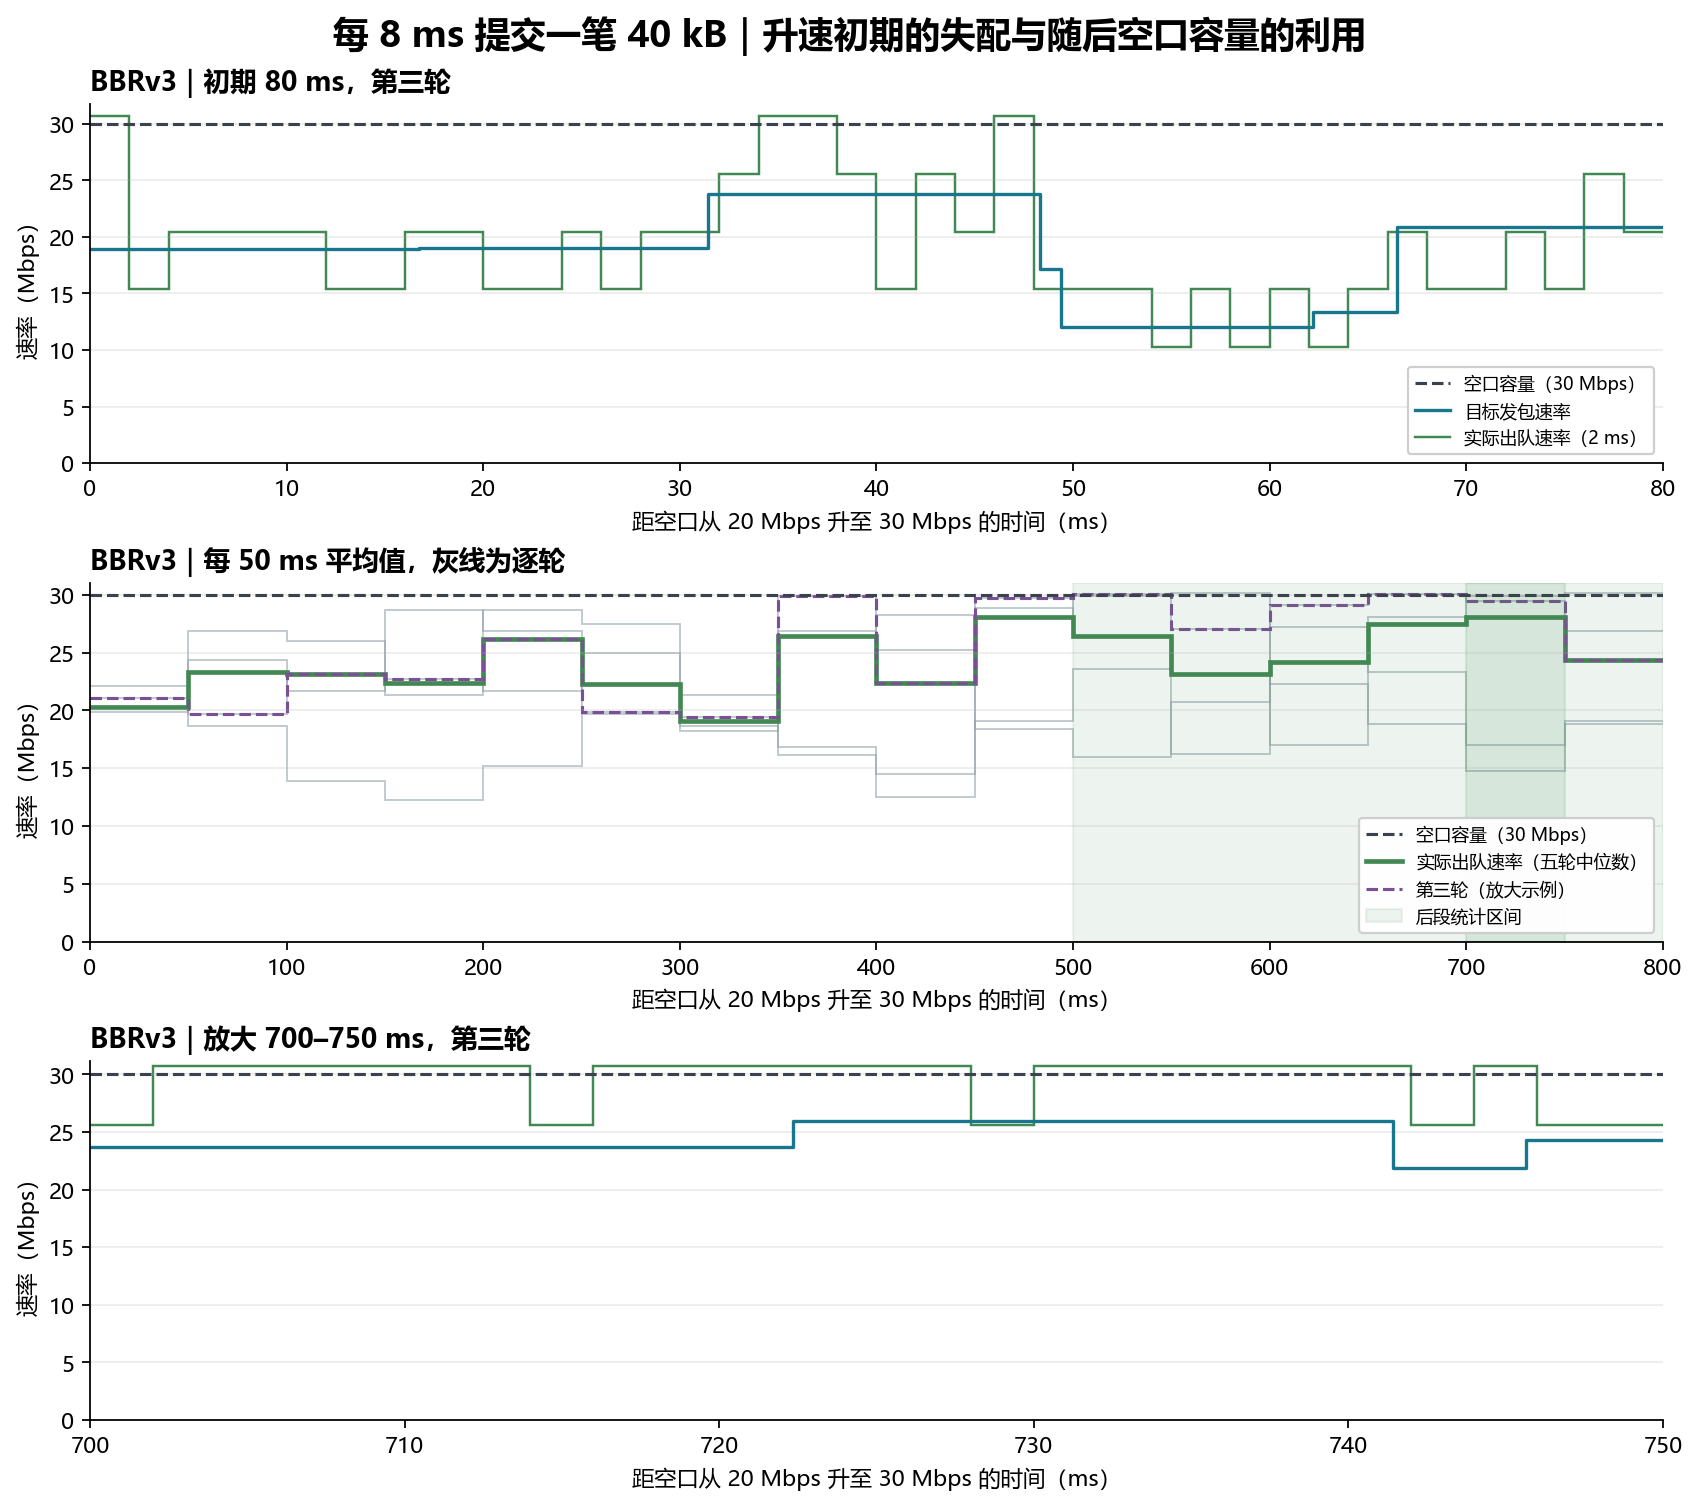
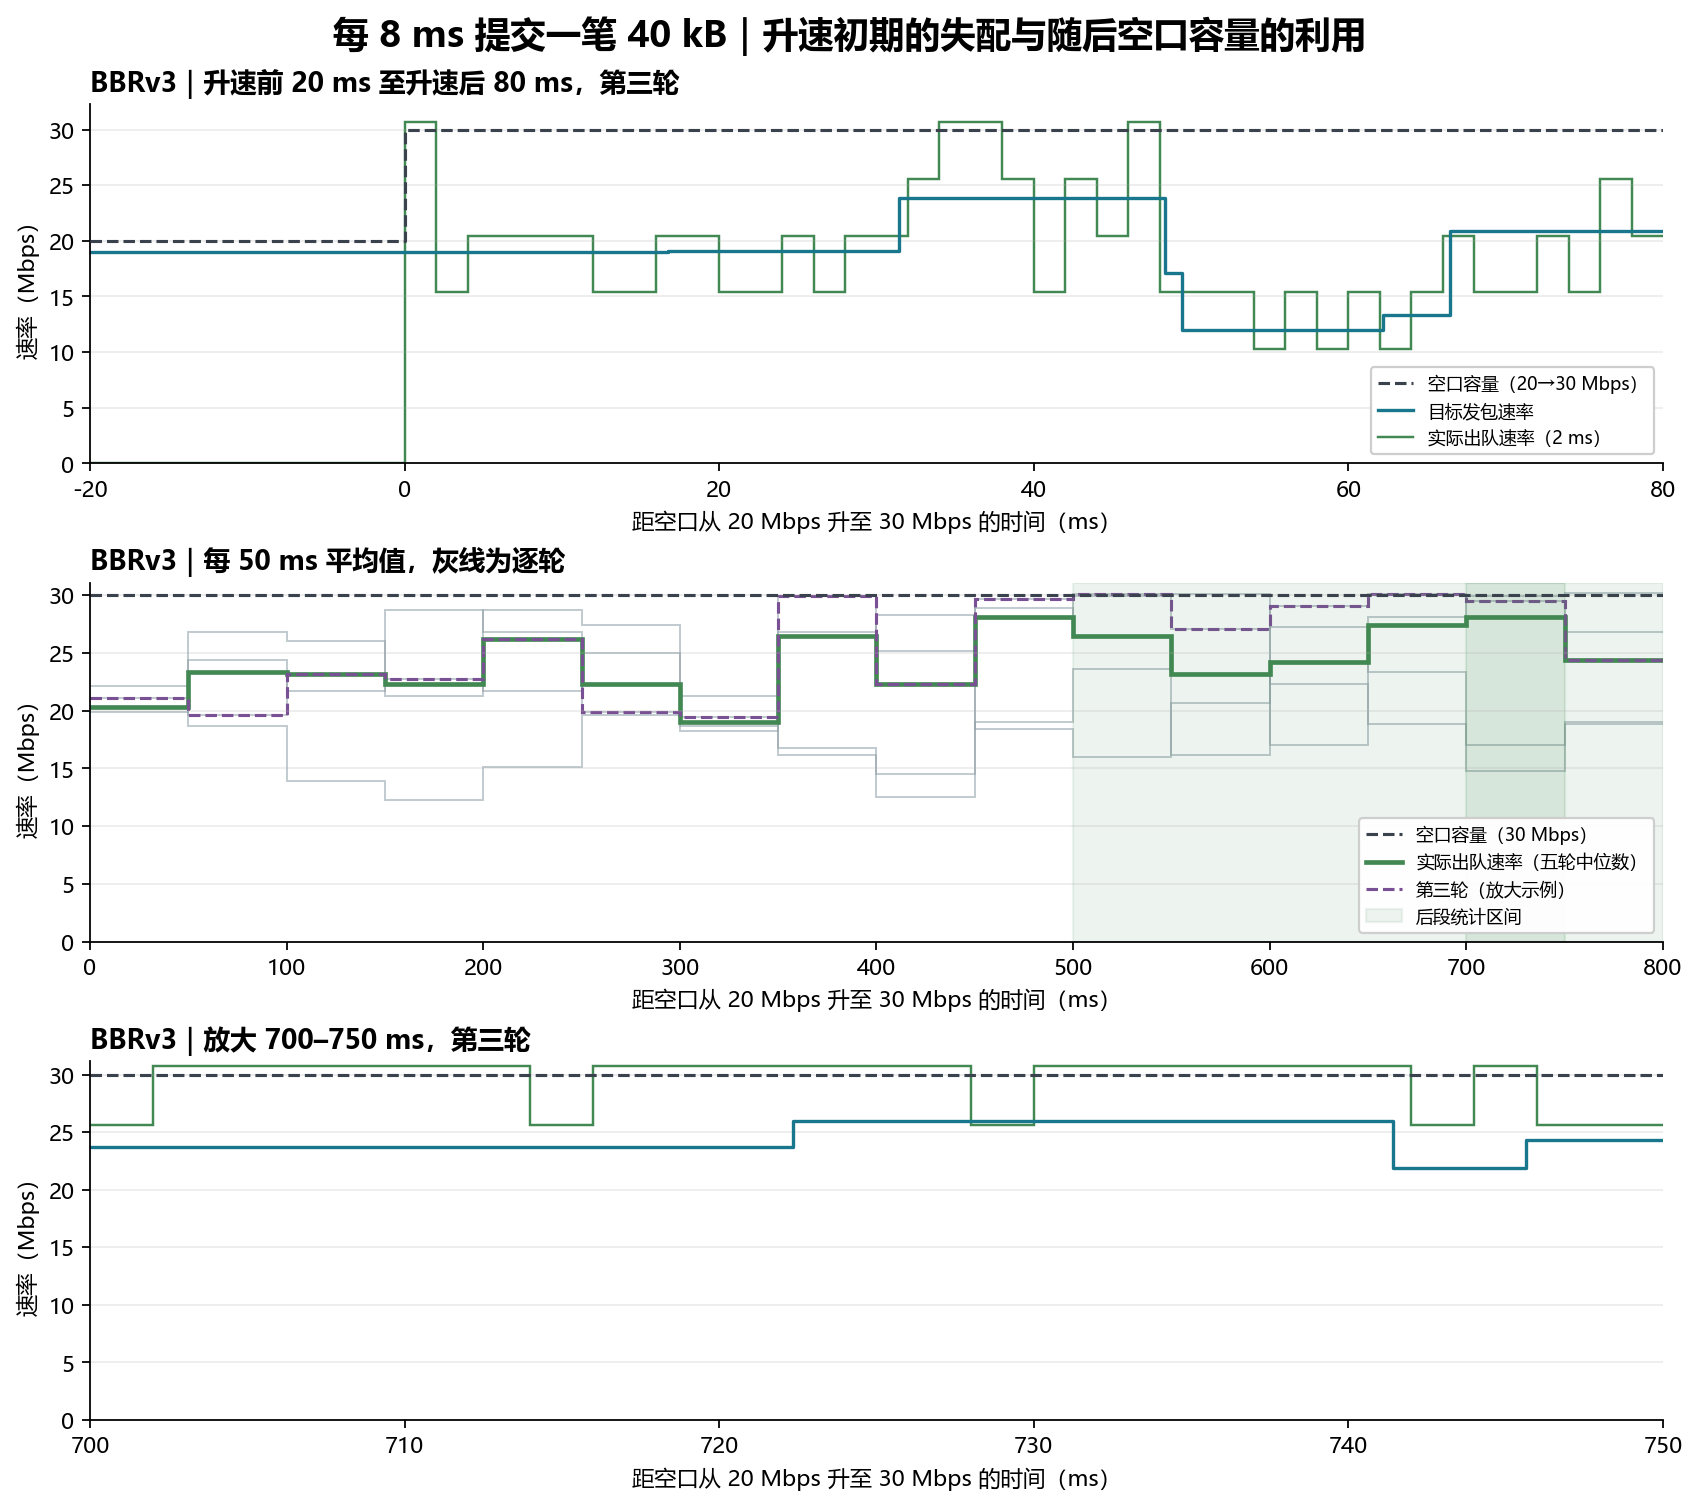
Show the pre-step capacity in the BBRv3 40 kB trace

diff --git a/studies/pacing_loss/reverse_delay_report.py b/studies/pacing_loss/reverse_delay_report.py
@@ -100,7 +100,7 @@ def plot_long_rise(runs, out, *, request_train=False):
                              sharey="row", squeeze=False, layout="constrained")
     title = "每 8 ms 提交一笔 40 kB" if request_train else "3 MB 连续上传"
     fig.suptitle(f"{title}｜升速初期的失配与随后空口容量的利用", fontsize=16, fontweight="bold")
-    early = list(range(0, 81, 2))
+    early = list(range(-20 if request_train else 0, 81, 2))
     coarse = list(range(0, 801, 50))
     late = list(range(700, 751, 2)) if request_train else list(range(550, 601, 2))
     detail_repeat = "第三轮" if request_train else "第一轮"
@@ -108,7 +108,7 @@ def plot_long_rise(runs, out, *, request_train=False):
     table = []
     for j, mode in enumerate(modes):
         detail, overview, zoom = axes[:, j]
-        for ax in axes[:, j]:
+        for ax in ((overview, zoom) if request_train else axes[:, j]):
             ax.axhline(30, color=CAP, lw=1.4, ls="--", label="空口容量（30 Mbps）")
         by_window = {a: [] for a in coarse[:-1]}
         for (tag, run), (raw, wire, rows) in sorted(runs.items()):
@@ -119,6 +119,10 @@ def plot_long_rise(runs, out, *, request_train=False):
             if completed < coarse[-1]:
                 raise ValueError("Upload finished before the comparison window ended")
             if run.endswith("__02" if request_train else "__00"):
+                if request_train:
+                    capacity = [(t / 1000 - CHANGE, rate) for t, rate in raw["plan.json"]["capacity"]]
+                    step(detail, capacity, early[0], early[-1], color=CAP, lw=1.4, ls="--", zorder=4,
+                         label="空口容量（20→30 Mbps）")
                 pacing = samples(raw, "pacing_bps", 1e6)
                 for ax, edges in ((detail, early), (zoom, late)):
                     step(ax, pacing, edges[0], edges[-1], color=PACE, lw=1.5, label="目标发包速率")
@@ -141,7 +145,8 @@ def plot_long_rise(runs, out, *, request_train=False):
                             color="#795093", lw=1.4, ls="--", label="第三轮（放大示例）")
         overview.axvspan(500, 800, color=OUT, alpha=.09, label="后段统计区间")
         overview.axvspan(late[0], late[-1], color=OUT, alpha=.13)
-        style(detail, f"BBRv{mode[3]}｜初期 80 ms，{detail_repeat}", "速率（Mbps）" if j == 0 else "")
+        detail_span = "升速前 20 ms 至升速后 80 ms" if request_train else "初期 80 ms"
+        style(detail, f"BBRv{mode[3]}｜{detail_span}，{detail_repeat}", "速率（Mbps）" if j == 0 else "")
         style(overview, f"BBRv{mode[3]}｜每 50 ms 平均值，灰线为逐轮", "速率（Mbps）" if j == 0 else "")
         style(zoom, f"BBRv{mode[3]}｜放大 {late[0]}–{late[-1]} ms，{detail_repeat}",
               "速率（Mbps）" if j == 0 else "")

diff --git a/REPORT.pacing-mismatch-40kb-bbr3.zh-CN.md b/REPORT.pacing-mismatch-40kb-bbr3.zh-CN.md
@@ -12,7 +12,7 @@
 
 ![图 1。BBRv3 在 40 kB 请求连续提交时，按 2 ms 和 50 ms 观察发包与空口利用](results/pacing-mismatch-reverse/train-40kb-rise.png)
 
-**图 1** 以空口容量升至 30 Mbps 的时刻为 0 ms，黑虚线是配置容量。上排和下排分别放大第三轮的 **0–80 ms** 和 **700–750 ms**。青线是 QUIC 安排发包间隔时使用的**目标发包速率**，绿线是每 **2 ms** 内完成模拟空口传输并由中继转发的**实际出队速率**。中排将每轮的实际出队速率按 **50 ms** 窗口取平均。细灰线表示单轮，粗绿线表示同一窗口的五轮中位数，紫虚线标出第三轮。浅绿底表示 **500–800 ms** 的汇总区间，较深的背景标出 **700–750 ms** 的放大区间。速率按完整 IP 包出队计量，单个 2 ms 窗口可能略高于配置容量，补发包也会计入空口占用。
+**图 1** 以升速时刻为 0 ms。上排放大第三轮的 **−20 至 80 ms**，黑虚线表示配置容量，由 **20 Mbps** 在 **0 ms** 跳到 **30 Mbps**。下排放大同一轮的 **700–750 ms**。青线是 QUIC 安排发包间隔时使用的**目标发包速率**，绿线是每 **2 ms** 内完成模拟空口传输并由中继转发的**实际出队速率**。中排将每轮的实际出队速率按 **50 ms** 窗口取平均。细灰线表示单轮，粗绿线表示同一窗口的五轮中位数，紫虚线标出第三轮。浅绿底表示 **500–800 ms** 的汇总区间，较深的背景标出 **700–750 ms** 的放大区间。速率按完整 IP 包出队计量，单个 2 ms 窗口可能略高于配置容量，补发包也会计入空口占用。
 
 | 升速后时间 | 五轮平均出队速率范围 | 对 30 Mbps 容量的利用率 |
 |---|---:|---:|
